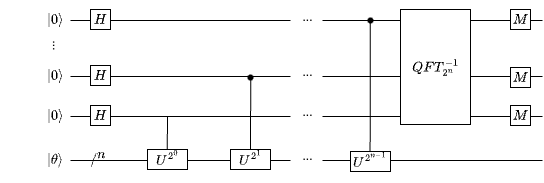
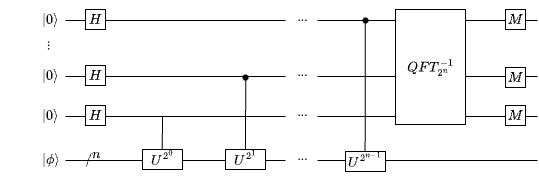
finished bto

diff --git a/src/pages/algorithms/btoracle.html b/src/pages/algorithms/btoracle.html
@@ -223,7 +223,7 @@
         For this algorithm, just think of us looking for \( \theta \)
         </p>
         <p>
-        Consider our unitary matrix \( U \) has an eigenvalue \( e^{2 \pi i \theta} \)
+        Consider our unitary matrix \( U \) has an eigenvalue \( e^{i \theta} \)
         <br><br> This algorithm tells us how to approximate \( \theta \) with high probability of success.
         </p>
         <p>
@@ -231,9 +231,9 @@
         <img src="../../../assets/quantum-phase-estimation-diagram.png"> <br>
         Notice the \( QFT^{-1}_{2^n}\), is our inverse quantum fourier transform, which runs on \( 2^n \) states since each qubit can have n states of 0 or 1.<br><br>
         Likewise, notice \( U^n \) where n is referring to the amount of times that \( U \) is applied to a qubit<br><br>
-        Here we can see that we start with the stream of qubits \(\ket{0^{\otimes n}} \ket{\theta}\), the top \( \ket{0} \) qubits are put into superposition state
+        Here we can see that we start with the stream of qubits \(\ket{0^{\otimes n}} \ket{\phi}\), the top \( \ket{0} \) qubits are put into superposition state
         \[
-        \ket{0^{\otimes n}} \ket{\theta}
+        \ket{0^{\otimes n}} \ket{\phi}
         \longrightarrow
         \]
         \[
@@ -241,17 +241,16 @@
         \otimes \frac{1}{\sqrt{2}} \bigg(\ket{0} + \ket{1} \bigg)
         \otimes ... \otimes 
         \frac{1}{\sqrt{2}} \bigg(\ket{0} + \ket{1} \bigg)
-        \bigg)\ket{\theta}
+        \bigg)\ket{\phi}
         \]
         Now you'll see similarly to how \( R_n \) works, our \( U \) yields a similar output, let's represent our superposition state of \( \ket{0} \)'s as \( j \) 
         \[
-        U^j\ket{j} \ket{\theta} \longrightarrow \ket{j} U^J \ket{\theta}
+        U^j\ket{j} \ket{\phi} \longrightarrow \ket{j} U^J \ket{\phi}
         \]
         Notice that this is now in phase kickback, so 
         \[
-        \ket{j} U^J \ket{\theta} \longrightarrow e^{2 \pi i \theta j}
+        \ket{j} U^J \ket{\phi} \longrightarrow \ket{j} e^{i \theta} \phi
         \]
-        Notice us again representing this using euler's formula.
         </p>
         Let's see how this looks in our example, since \(2^0 = 1\), and \(U^1=U\), \(U\) is only applied once
         \[
@@ -259,32 +258,55 @@
         \otimes \frac{1}{\sqrt{2}} \bigg(\ket{0} + \ket{1} \bigg)
         \frac{1}{\sqrt{2}} \bigg(\ket{0} + \ket{1} \bigg)
         \otimes ...
-        \bigg)\ket{\theta}
+        \bigg)\ket{\phi}
         \]
-        This causes phase kickback, and the output in this case is \( e^\theta \), we'll also forget the first string of superposition states for now
+        This causes phase kickback, and the output in this case is \( e^{i \theta} \), we'll also forget the first string of superposition states for now
         \[
         \longrightarrow 
          ...\otimes
-        \frac{1}{\sqrt{2}} \bigg(\ket{0} + e^\theta\ket{1} \bigg)
-        \ket{\theta}
+        \frac{1}{\sqrt{2}} \bigg(\ket{0} + e^{i\theta}\ket{1} \bigg)
+        \ket{\phi}
         \]
         Next, we see that \( U \) is applied twice, this goes how you think it would
         \[
         U^2 ...\otimes
-       \frac{1}{\sqrt{2}} \bigg(\ket{0} + e^\theta\ket{1} \bigg)
-       \ket{\theta}
-       \longrightarrow
-       \frac{1}{\sqrt{2}} \bigg(\ket{0} + e^i\theta\ket{1} \bigg)
-       \frac{1}{\sqrt{2}} \bigg(\ket{0} + e^{2i\theta}\ket{1} \bigg)
-       \ket{\theta}
+        \frac{1}{\sqrt{2}} \bigg(\ket{0} + e^{i\theta}\ket{1} \bigg)
+        \ket{\phi}
+        \longrightarrow
+        \]
+        \[
+        \frac{1}{\sqrt{2}} \bigg(\ket{0} + e^{i\theta}\ket{1} \bigg)
+        \frac{1}{\sqrt{2}} \bigg(\ket{0} + e^{2i\theta}\ket{1} \bigg)
+        \ket{\phi}
         \]
         and this pattern continues on, we can represent this as
         \[
-        
+        \frac{1}{\sqrt{2}} \bigg(\ket{0} + e^{2^{n-1}i\theta}\ket{1} \bigg) \otimes ... \otimes
+        \frac{1}{\sqrt{2}} \bigg(\ket{0} + e^{2i\theta}\ket{1} \bigg) \otimes
+        \frac{1}{\sqrt{2}} \bigg(\ket{0} + e^{i\theta}\ket{1} \bigg) \ket{\phi}
         \]
         <p>
-        
-        </p>
+        So what do we do with this state? Well, notice we now have to run our qubits through the inverse quantum fourier transform.<br><br>
+        Interestingly enough, all that we've been doing up to this point is preparing a QFT state to be able to be decoded at the end of our algorithm. <br><br>
+        So, let's look back at what QFT's output on \( \ket{x} \) looks like
+        \[
+        QFT \ket{x} \longrightarrow
+        \frac{1}{\sqrt{2}} \bigg( \ket{0} + e^{\frac{2 \pi i x}{2^1}} \ket{1} \bigg) \otimes 
+        \frac{1}{\sqrt{2}} \bigg( \ket{0} + e^{\frac{2 \pi i x}{2^2}} \ket{1} \bigg) \otimes 
+        \frac{1}{\sqrt{2}} \bigg( \ket{0} + e^{\frac{2 \pi i x}{2^n}} \ket{1} \bigg)
+        \]
+        Notice these are very close, but there is a couple differentiating factors, our \( \theta \phi \), would need to be mulitplied by \( 2 \pi \) and our \( 2^n \) is actually in the denominator
+        <br><br> However, notice that our inverse QFT is run \( 2^n \) times, so we can forget about that, and just apply \( 2\pi \)
+        <br><br>Adding \( 2\pi \) is simply putting it in front of \( i \theta \), so while we do this, we'll also write our state in summation form, this is due to the fact that writing out each qubit is trivial at this point, we get the state
+        \[
+        \frac{1}{\sqrt{2}} \sum^{}_{\phi =0} {e^{2 \pi i \theta \phi } \ket {\phi}}
+        \]
+        And with this state, we can now run it through our inverse QFT
+        \[
+        QFT^{-1}_{2^n} \bigg( \frac{1}{\sqrt{2}} \sum^{}_{k=0} {e^{2 \pi i \theta \phi } \ket {\phi}} \bigg) \longrightarrow \ket{\theta}
+        \]
+        We can see that the \( QFT^{-1} \) allows us to have \( \theta \) in a state, that upon measurement, leaves us with the eigenvalue \( \theta \) <br><br>
+        We will use this in the upcoming Shor's algorithm. 
         <br><br><br><br>
         [<a href="../index.html">\( \leftarrow \) back to home</a>]
         <br><br><br><br>
